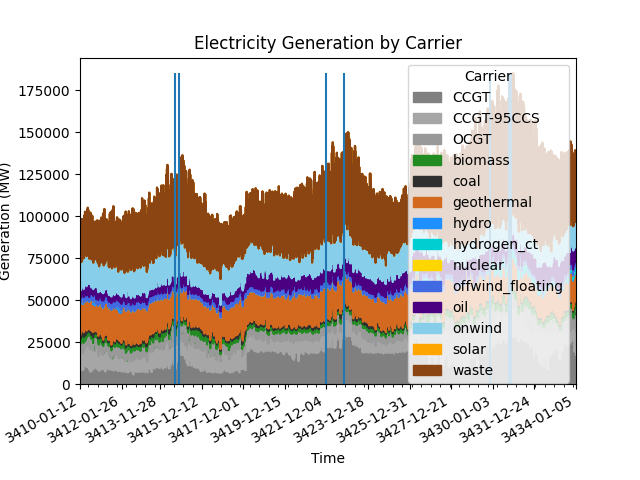
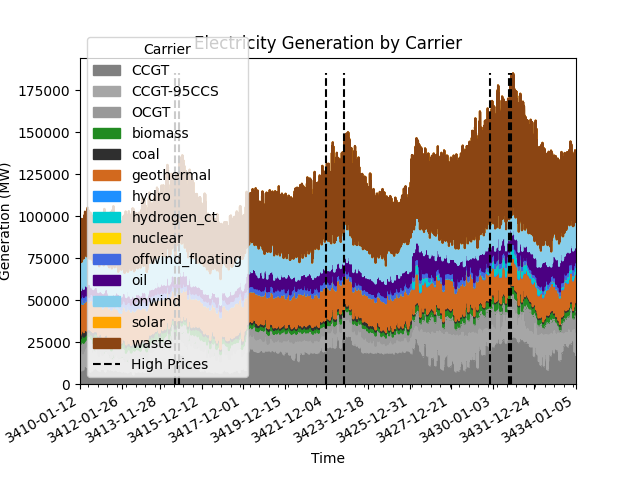
label high prices in demand/generation graphs

Changed region(s): [[0.625, 0.125, 0.9062, 0.8125], [0.125, 0.0625, 0.4062, 0.8125]]

diff --git a/analysis_code/read_electricity_network.py b/analysis_code/read_electricity_network.py
@@ -122,7 +122,7 @@ def plot_generation(data, dates, RUN_NAME):
     # Auto-format for better readability
     fig.autofmt_xdate()
 
-    plt.vlines(dates, 0, max(generation.sum(axis=1)))
+    plt.vlines(dates, 0, max(generation.sum(axis=1)), color='black', linestyle='dashed', label='High Prices')
 
     plt.xlabel('Time')
     plt.ylabel('Generation (MW)')
@@ -148,7 +148,7 @@ def plot_demand(data, dates, RUN_NAME):
     # Auto-format for better readability
     fig.autofmt_xdate()
 
-    plt.vlines(dates, 0, max(total_demand))
+    plt.vlines(dates, 0, max(total_demand), color='black', linestyle='dashed', label='High Prices')
 
     plt.xlabel('Time')
     plt.ylabel('Demand (MW)')
